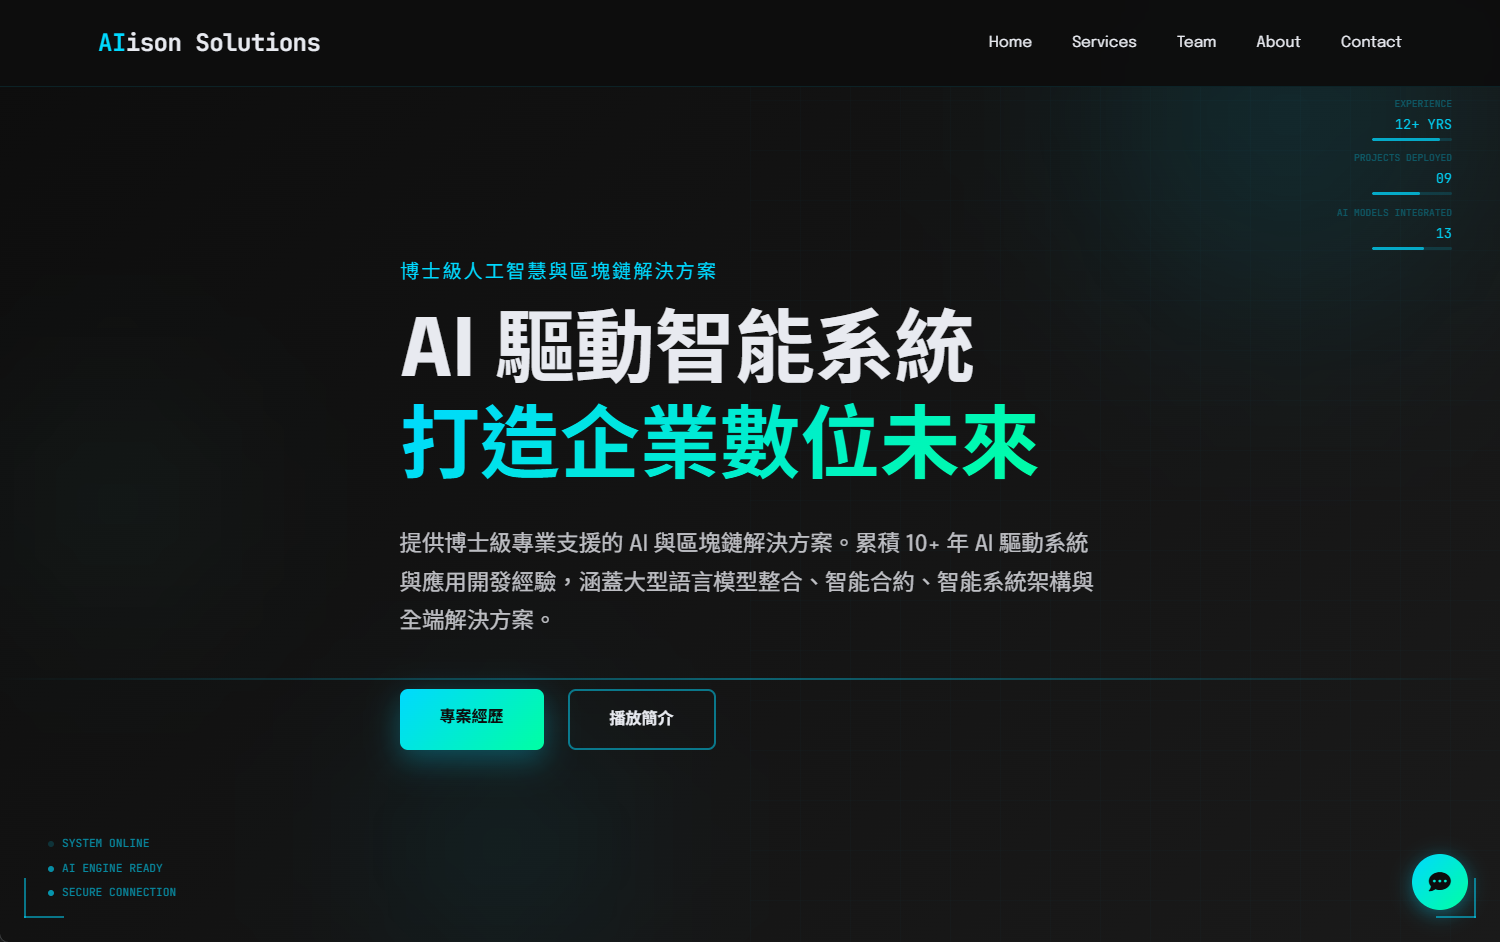
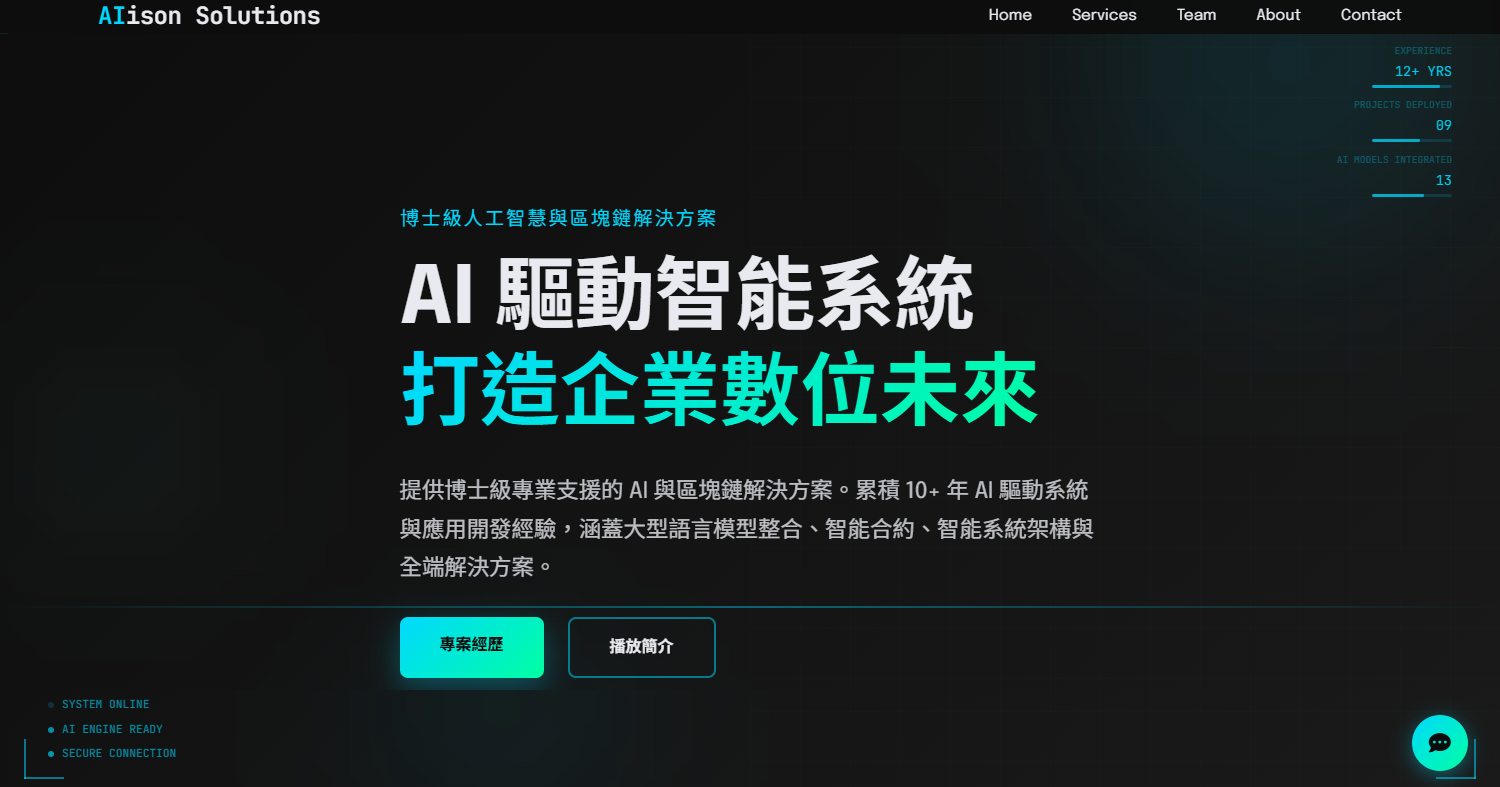
feat: add more portfolios

diff --git a/index.html b/index.html
@@ -946,6 +946,22 @@
 
         <div class="col-lg-4 col-md-6 portfolio-item filter-ai">
           <div class="portfolio-wrap">
+            <img src="assets/img/portfolio/aIison-solutions.png" class="img-fluid" alt="">
+            <div class="portfolio-info">
+              <h4>AIison Solutions</h4>
+              <p></p>
+              <div class="portfolio-links">
+                <a href="assets/img/portfolio/aIison-solutions-details.png" data-gallery="portfolioGallery" class="portfolio-lightbox" title="">
+                  <i class="bx bx-plus"></i>
+                </a>
+                <a href="https://alison-solutions.github.io" target="_blank" title="Portfolio Details"><i class="bx bi-box"></i></a>
+              </div>
+            </div>
+          </div>
+        </div>
+
+        <div class="col-lg-4 col-md-6 portfolio-item filter-ai">
+          <div class="portfolio-wrap">
             <img src="assets/img/portfolio/nycu-gpt.jpg" class="img-fluid" alt="">
             <div class="portfolio-info">
               <h4>Project Development: <br>NYCU GPT</h4>
@@ -967,10 +983,9 @@
               <h4>Domaineks - Official Website</h4>
               <p>Domaineks Co., Ltd.</p>
               <div class="portfolio-links">
-                <a href="assets/img/portfolio/aIison-solutions.png" data-gallery="portfolioGallery" class="portfolio-lightbox" title="">
+                <a href="assets/img/portfolio/domaineks-details.png" data-gallery="portfolioGallery" class="portfolio-lightbox" title="">
                   <i class="bx bx-plus"></i>
                 </a>
-                <a href="https://alison-solutions.github.io" target="_blank" title="Portfolio Details"><i class="bx bi-box"></i></a>
                 <a href="https://domaineks.com" target="_blank" title="Portfolio Details"><i class="bx bx-globe"></i></a>
               </div>
             </div>
